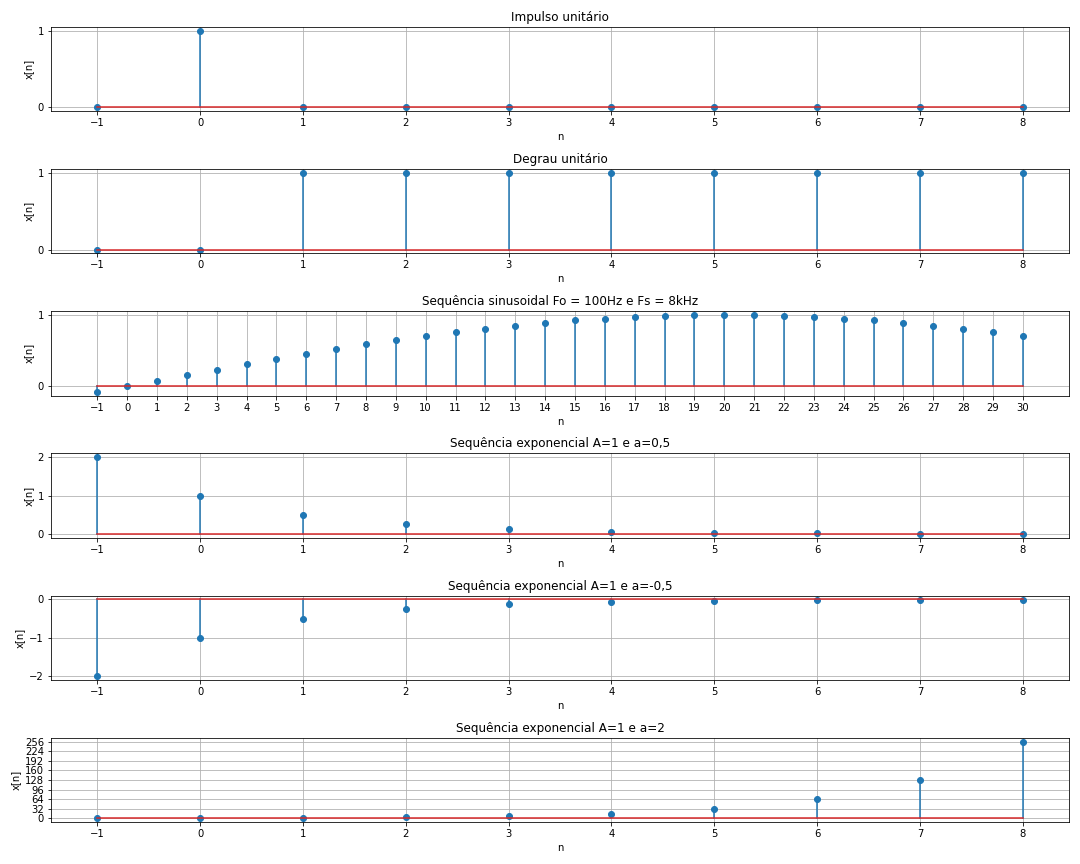
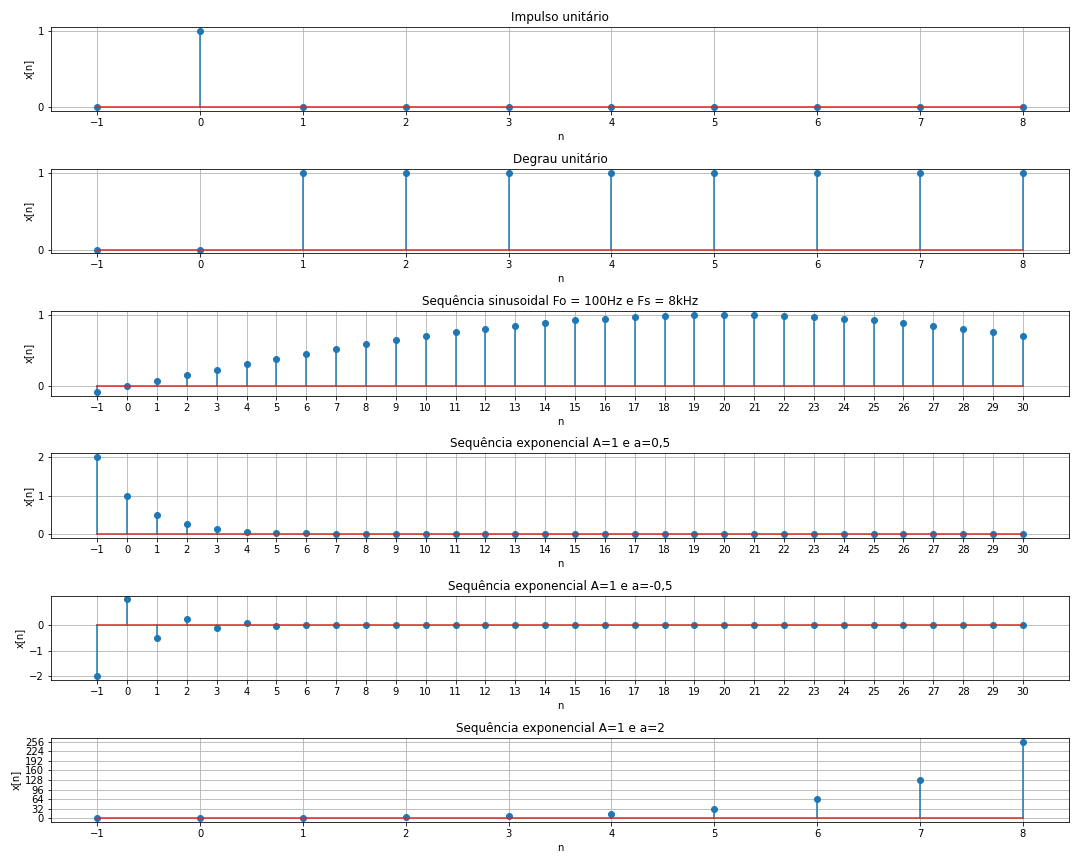
Exponencial na aula 2 concertada

diff --git a/Aula 2/sinais_discretos.py b/Aula 2/sinais_discretos.py
@@ -87,7 +87,7 @@ plt.xticks(np.arange(-1, 30.1, 1))
 plt.yticks(np.arange(0, 2.1, 1))
 
 # Exponencial2
-exponencial2 =  -0.5 ** x2
+exponencial2 =  (-0.5) ** x2
 
 plt.subplot(615)
 plt.title("Sequência exponencial A=1 e a=-0,5")
